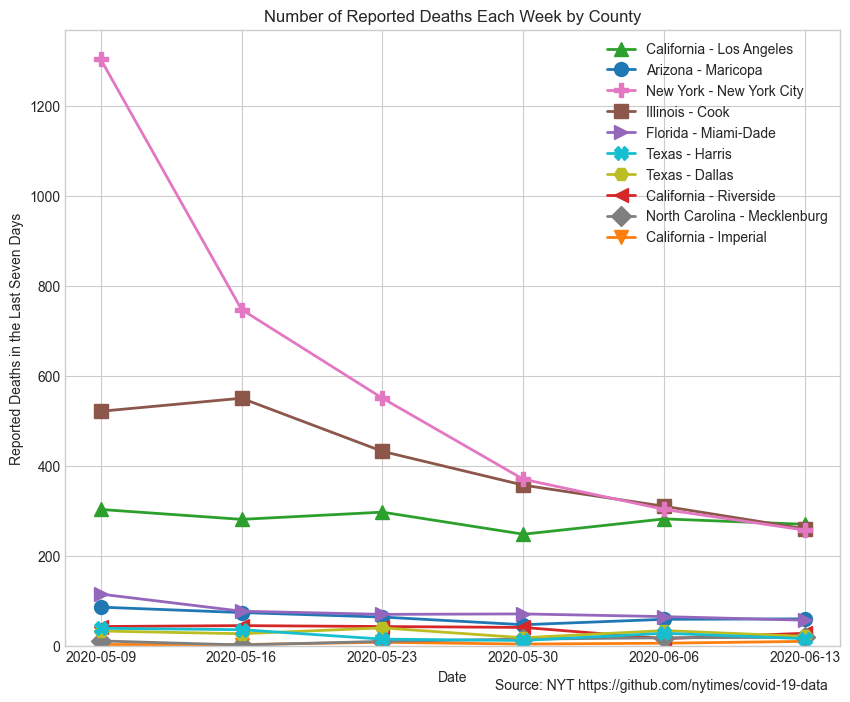
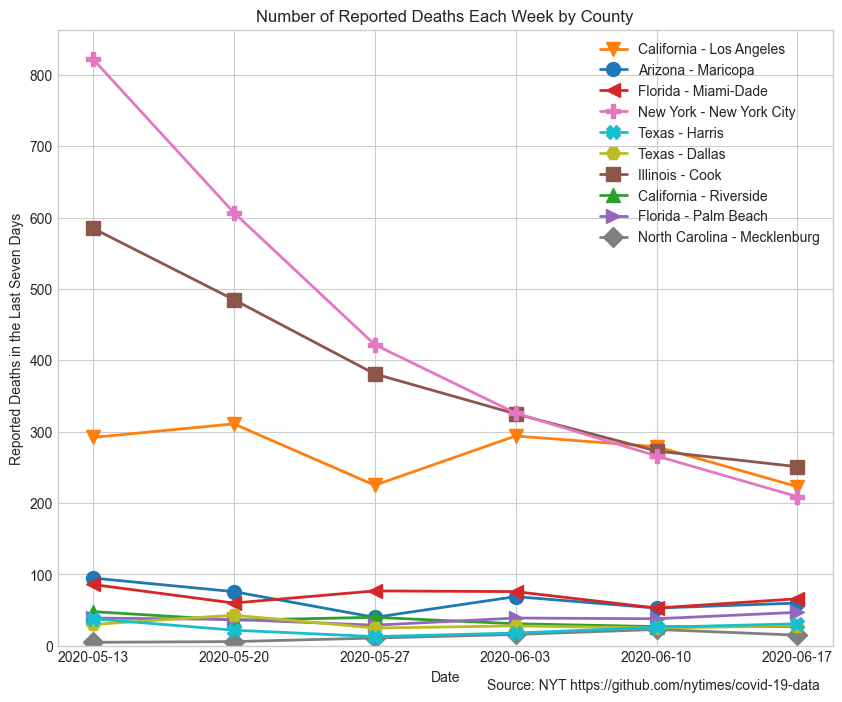
update with 6/17 data

diff --git a/README.md b/README.md
@@ -1,6 +1,6 @@
 # Coronavirus in the U.S.
 
-The plots below show the ten states and ten counties with the most reported cases of Covid-19 in the last seven days, as of June 13, 2020. 
+The plots below show the ten states and ten counties with the most reported cases of Covid-19 in the last seven days, as of June 17, 2020. 
 
 ## Reported cases by state
 
